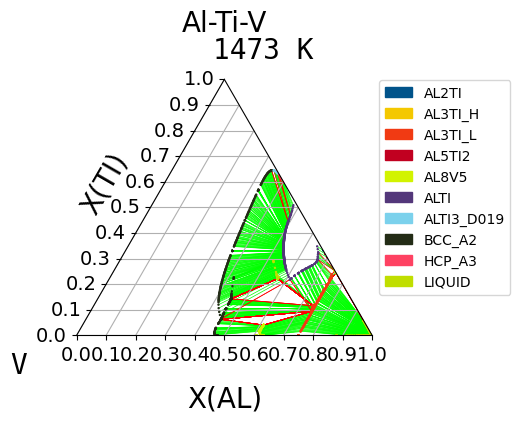
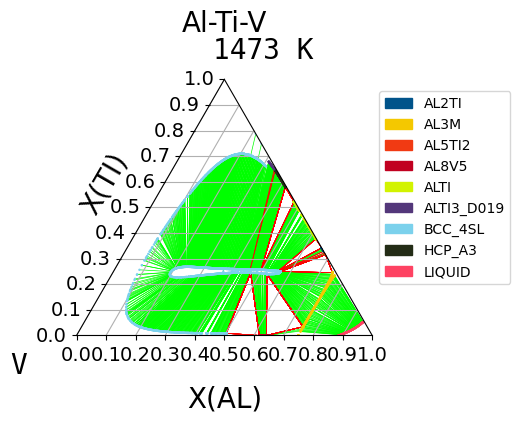
WSL2(ubuntu 22.04 LTS) on win11

diff --git a/Al-Ti-V/ternary-AlTiV.py b/Al-Ti-V/ternary-AlTiV.py
@@ -4,7 +4,8 @@ from pycalphad import Database, ternplot
 from pycalphad import variables as v
 
 #------User input area--------
-tdb_file = 'altiv_Lu.tdb' # from CPDDB
+#tdb_file = 'altiv_Lu.tdb' # from CPDDB
+tdb_file = 'AlTiV.TDB' # from TDBDB (Lindahl et al. (2015))
 ELA = 'Al' # x-axis
 ELB = 'V'  # lower left side
 ELC = 'Ti' # y-axis

diff --git a/README.md b/README.md
@@ -148,6 +148,7 @@ Acknowledgment
 - ATSUMITEC Co., Ltd.
 - RIKEN
 - Without the support of "meguREnergy Co., Ltd." and "ATSUMITEC Co., Ltd.", I would not have been able to develop the examples to the level shown on this github. I would like to express my sincere gratitude. 
+- I received permission from Dr. T. Abe of NIMS to post the revised version of TDB. I would like to express my gratitude to you. (11/Dec/2023 12.04)
 
 
 PC specs used for test
